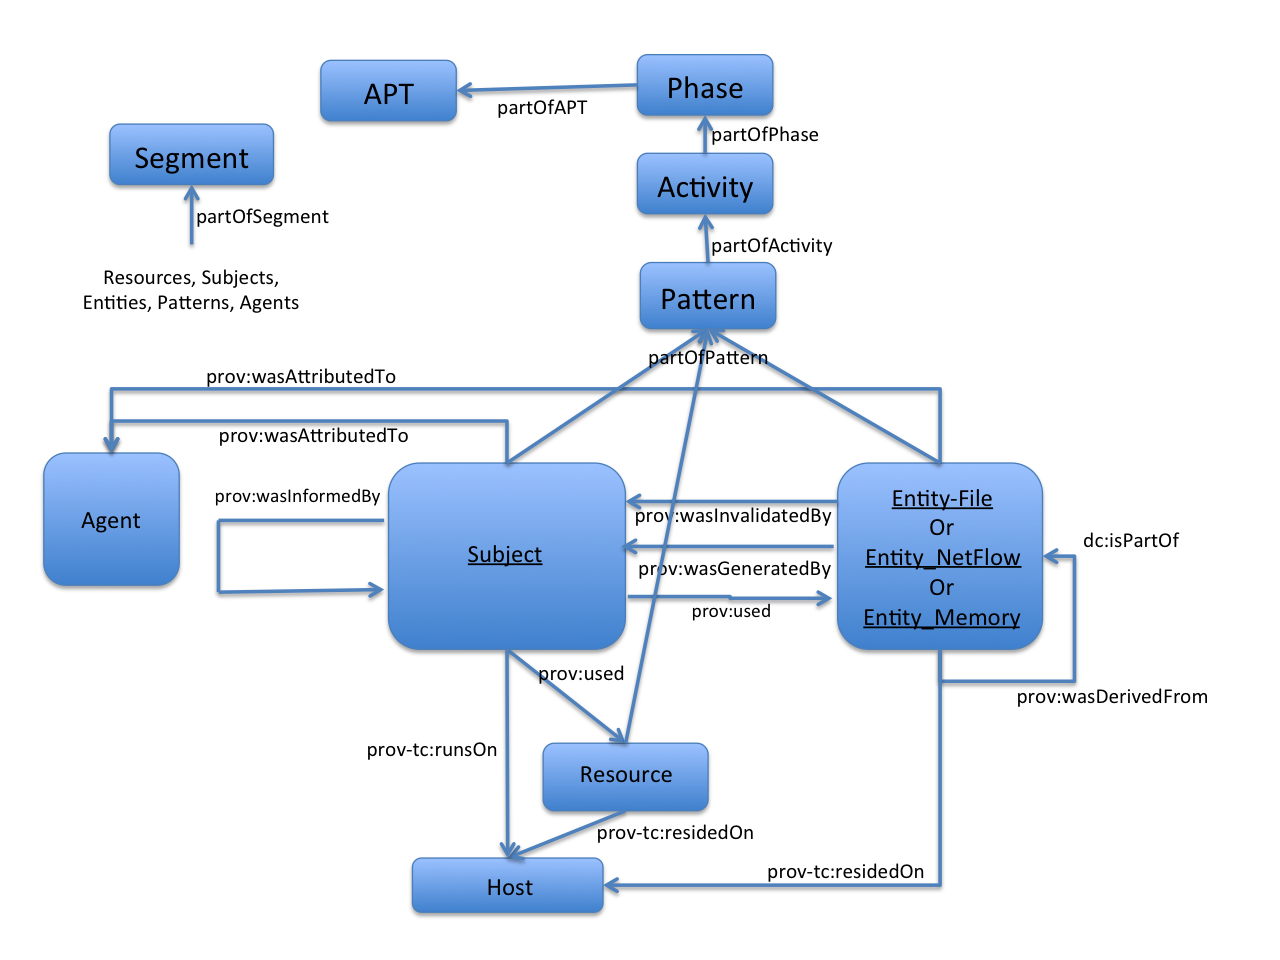
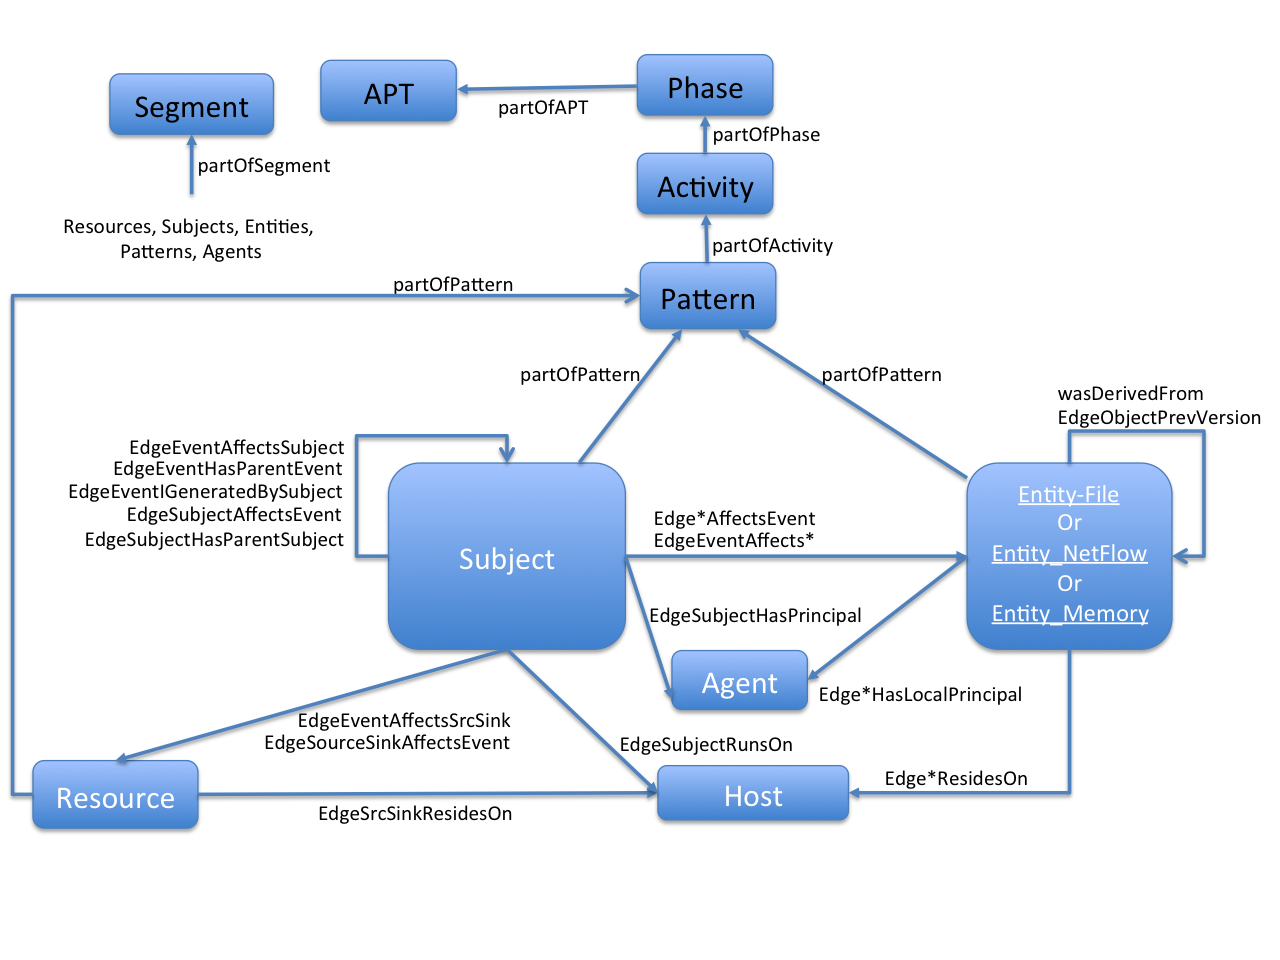
cleanup on architecture diagram

diff --git a/Ingest/Language.md b/Ingest/Language.md
@@ -641,18 +641,6 @@ dc:isPartOf (maps to CDM EDGE_isPartOf)
 -----
 An entity can be part of another entity. We use dc:isPartOf for this construction. This relationship has no attributes.
 
-prov:wasInformedBy
--------
-This relationship type maps several edge types in CDM:
-
-* EDGE_EVENT_HASPARENT_EVENT
-* EDGE_SUBJECT_HASPARENT_SUBJECT
-* EDGE_EVENT_ISGENERATEDBY_SUBJECT
-* EDGE_EVENT_AFFECTS_SUBJECT
-* EDGE_SUBJECT_AFFECTS_EVENT
-
-No attributes.
-
 prov-tc:runsOn (CDM Edge Type EDGE_SUBJECT_RUNSON)
 --------
 This relationship connects Subjects with the hosts they run on.
